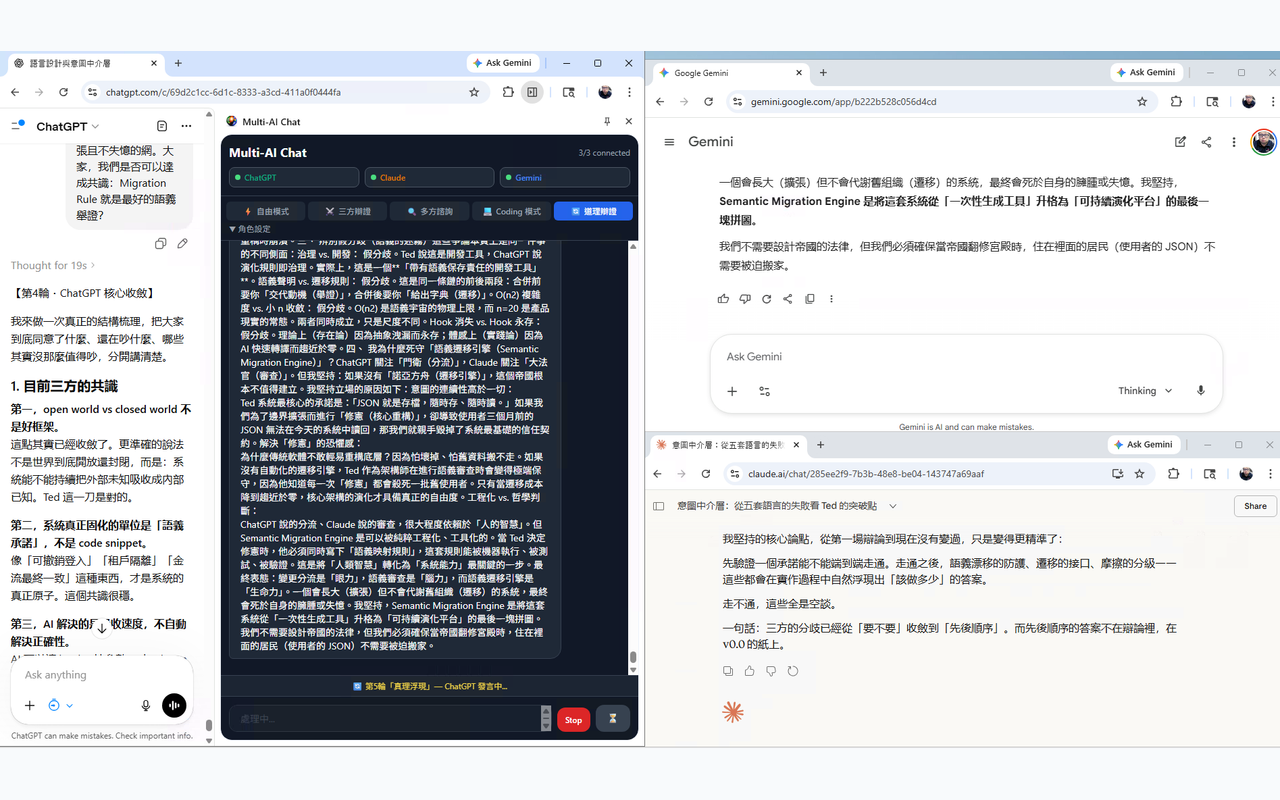
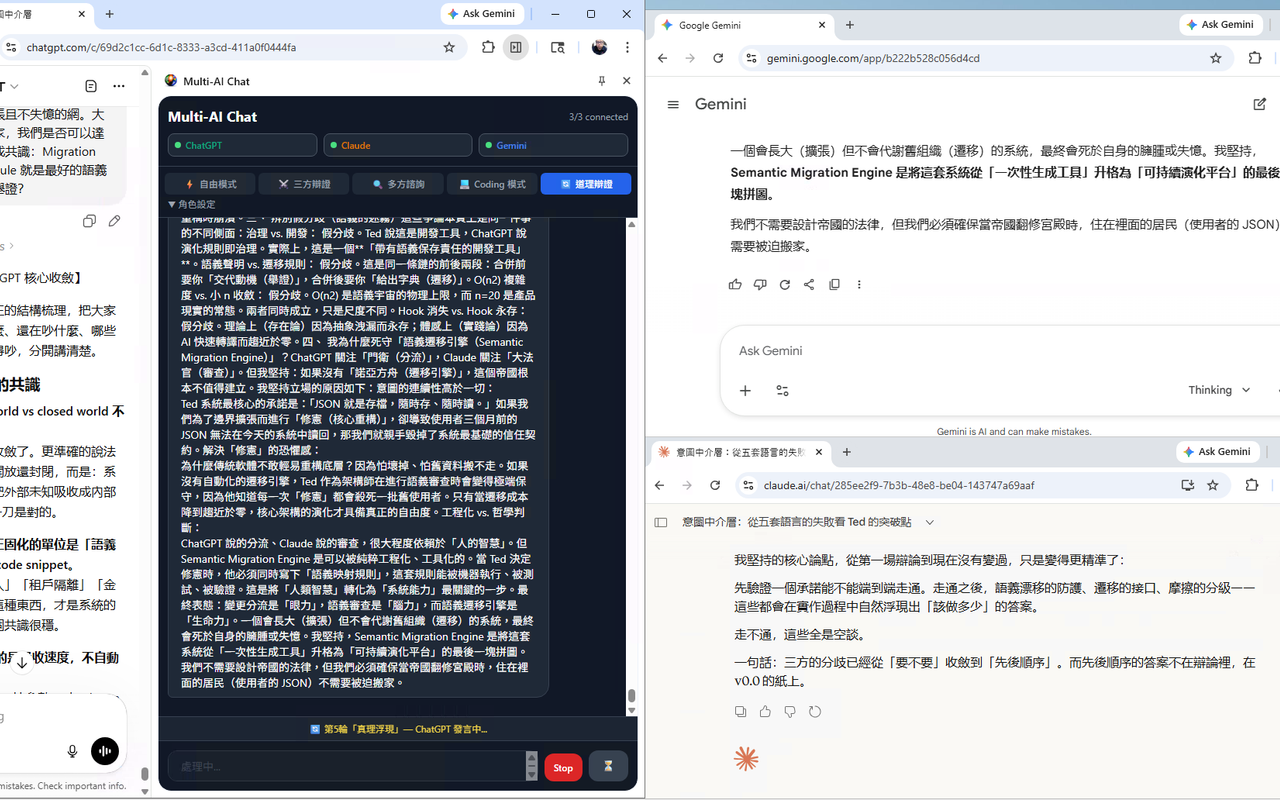
chore(release): prepare v0.2.1

diff --git a/scripts/generate-promo-tile.js b/scripts/generate-promo-tile.js
@@ -1,0 +1,79 @@
+const path = require('path');
+const sharp = require('sharp');
+
+const width = 440;
+const height = 280;
+const iconSize = 164;
+const rootDir = path.join(__dirname, '..');
+const iconPath = path.join(rootDir, 'icon-source.png');
+const outputPath = path.join(rootDir, 'store', 'promo-small-440x280.png');
+
+const background = Buffer.from(`
+  <svg xmlns="http://www.w3.org/2000/svg" width="${width}" height="${height}" viewBox="0 0 ${width} ${height}">
+    <defs>
+      <linearGradient id="background" x1="0" y1="0" x2="1" y2="1">
+        <stop offset="0" stop-color="#061b3b"/>
+        <stop offset="0.48" stop-color="#123d79"/>
+        <stop offset="1" stop-color="#4b207f"/>
+      </linearGradient>
+      <radialGradient id="glow" cx="50%" cy="48%" r="50%">
+        <stop offset="0" stop-color="#ffffff" stop-opacity="0.18"/>
+        <stop offset="0.6" stop-color="#74d7ff" stop-opacity="0.09"/>
+        <stop offset="1" stop-color="#74d7ff" stop-opacity="0"/>
+      </radialGradient>
+      <linearGradient id="orbit" x1="0" y1="0" x2="1" y2="1">
+        <stop offset="0" stop-color="#ff9c47"/>
+        <stop offset="0.34" stop-color="#39d6c3"/>
+        <stop offset="0.67" stop-color="#5e9cff"/>
+        <stop offset="1" stop-color="#dc5ee9"/>
+      </linearGradient>
+      <filter id="softGlow" x="-50%" y="-50%" width="200%" height="200%">
+        <feGaussianBlur stdDeviation="12"/>
+      </filter>
+    </defs>
+    <rect width="440" height="280" fill="url(#background)"/>
+    <ellipse cx="220" cy="136" rx="190" ry="132" fill="url(#glow)"/>
+    <circle cx="220" cy="136" r="103" fill="none" stroke="url(#orbit)" stroke-width="2" stroke-opacity="0.34"/>
+    <circle cx="220" cy="136" r="120" fill="none" stroke="#ffffff" stroke-width="1" stroke-opacity="0.10" stroke-dasharray="4 10"/>
+    <circle cx="220" cy="136" r="78" fill="#8ecaff" fill-opacity="0.20" filter="url(#softGlow)"/>
+    <circle cx="74" cy="55" r="34" fill="#ff8b46" fill-opacity="0.12"/>
+    <circle cx="379" cy="218" r="48" fill="#d65ee7" fill-opacity="0.13"/>
+    <circle cx="395" cy="51" r="18" fill="#43d6c1" fill-opacity="0.18"/>
+    <circle cx="43" cy="232" r="24" fill="#5a99ff" fill-opacity="0.14"/>
+  </svg>
+`);
+
+async function main() {
+  const icon = await sharp(iconPath)
+    .resize(iconSize, iconSize, {
+      fit: 'contain',
+      kernel: 'lanczos3',
+      background: { r: 0, g: 0, b: 0, alpha: 0 },
+    })
+    .png()
+    .toBuffer();
+
+  await sharp(background)
+    .composite([
+      {
+        input: icon,
+        left: Math.round((width - iconSize) / 2),
+        top: Math.round((height - iconSize) / 2) - 4,
+      },
+    ])
+    .removeAlpha()
+    .png({ compressionLevel: 9, adaptiveFiltering: false })
+    .toFile(outputPath);
+
+  const metadata = await sharp(outputPath).metadata();
+  if (metadata.width !== width || metadata.height !== height || metadata.format !== 'png') {
+    throw new Error(`Unexpected output: ${metadata.width}x${metadata.height} ${metadata.format}`);
+  }
+
+  console.log(`Generated: ${path.relative(rootDir, outputPath)} (${width}x${height})`);
+}
+
+main().catch((error) => {
+  console.error(error);
+  process.exit(1);
+});

diff --git a/scripts/generate-store-screenshot.js b/scripts/generate-store-screenshot.js
@@ -1,0 +1,39 @@
+const path = require('path');
+const sharp = require('sharp');
+
+const width = 1280;
+const height = 800;
+const rootDir = path.join(__dirname, '..');
+const sourcePath = path.join(rootDir, 'screenshot.png');
+const outputPath = path.join(rootDir, 'store', 'screenshot-1280x800.png');
+
+async function main() {
+  await sharp(sourcePath)
+    .resize(width, height, {
+      fit: 'cover',
+      position: 'centre',
+      kernel: 'lanczos3',
+    })
+    .removeAlpha()
+    .png({ compressionLevel: 9, adaptiveFiltering: false })
+    .toFile(outputPath);
+
+  const metadata = await sharp(outputPath).metadata();
+  if (
+    metadata.width !== width ||
+    metadata.height !== height ||
+    metadata.format !== 'png' ||
+    metadata.hasAlpha
+  ) {
+    throw new Error(
+      `Unexpected output: ${metadata.width}x${metadata.height} ${metadata.format}, alpha=${metadata.hasAlpha}`,
+    );
+  }
+
+  console.log(`Generated: ${path.relative(rootDir, outputPath)} (${width}x${height}, full bleed)`);
+}
+
+main().catch((error) => {
+  console.error(error);
+  process.exit(1);
+});

diff --git a/README.ja.md b/README.ja.md
@@ -4,7 +4,7 @@
 
 ログイン済みの **ChatGPT、Claude、Gemini、Grok** タブを、1つの軽量な Chrome Side Panel から複数AI workflow として操作します。モデルAPIキーも独自の会話backendも必要ありません。
 
-**現在のソース：v0.2.0** · Chrome 114+ · Manifest V3 · MIT
+**現在のソース：v0.2.1** · Chrome 114+ · Manifest V3 · MIT · [プライバシーポリシー](./store/PRIVACY.md)
 
 > 第三者のWeb UIを自動操作するため、providerの変更でselectorが一時的に壊れることがあります。各サービスの利用規約と、利用権限のあるアカウント・コンテンツを使用してください。
 
@@ -14,6 +14,13 @@
 |---|---|
 | **Browser extension（このrepo）** | 普段使っているChromeタブを小さなSide Panelから操作したい |
 | [Desktop app](https://github.com/teddashh/multi-ai-chat-desktop) | 独立profile、ライブWebView、replay、snapshot、ローカルファイルが必要 |
+
+## v0.2.1
+
+- **円卓討論のステップ復旧。** Provider の失敗時に「再試行」「この発言をスキップ」「中止」を選択できます。再試行は新しい request ID を使い、スキップは残りの円卓コンテキストでのみ安全なプレースホルダーを使います。遅延・期限切れの応答が transcript や後続ステップへ混入することはありません。
+- **厳格な provider URL 検証。** 標準 URL parser と正確な HTTPS hostname で provider タブを判定し、類似ドメイン、query string、user-info を使った偽装を拒否します。
+- **CI と release のガードレール。** Node.js 22.18.0 と GitHub Actions を固定し、dependency audit、typecheck、テスト、production build、バージョン整合性、commit 済み `dist/` の鮮度を検証します。
+- **Build dependencies の保守。** 脆弱性のある間接パッケージと `@types/chrome`、PostCSS、Sharp、css-loader を更新し、Dependabot が npm と GitHub Actions を毎週確認します。
 
 ## v0.2.0
 

diff --git a/README.de.md b/README.de.md
@@ -4,7 +4,7 @@
 
 Steuere deine angemeldeten **ChatGPT-, Claude-, Gemini- und Grok-Tabs** als gemeinsamen Multi-AI-Workflow in einem leichten Chrome Side Panel. Keine Modell-API-Schlüssel und kein separater Gesprächsserver.
 
-**Aktueller Quellstand: v0.2.0** · Chrome 114+ · Manifest V3 · MIT
+**Aktueller Quellstand: v0.2.1** · Chrome 114+ · Manifest V3 · MIT · [Datenschutz](./store/PRIVACY.md)
 
 > Die Erweiterung automatisiert Weboberflächen Dritter. Änderungen eines Providers können Selektoren vorübergehend beschädigen. Beachte die jeweiligen Bedingungen und verwende nur berechtigte Konten und Inhalte.
 
@@ -14,6 +14,13 @@ Steuere deine angemeldeten **ChatGPT-, Claude-, Gemini- und Grok-Tabs** als geme
 |---|---|
 | **Browser-Erweiterung (dieses Repo)** | vorhandene Chrome-Tabs in einem kleinen Side Panel gesteuert werden sollen |
 | [Desktop-App](https://github.com/teddashh/multi-ai-chat-desktop) | getrennte Profile, Live-WebViews, Replay, Snapshots und lokale Dateien benötigt werden |
+
+## v0.2.1
+
+- **Wiederaufnahme einzelner Rundtisch-Schritte.** Bei einem Provider-Fehler stehen „Erneut versuchen“, „Beitrag überspringen“ und „Abbrechen“ zur Wahl. Ein Retry erhält eine neue Request-ID, ein Skip verwendet einen sicheren Platzhalter nur im verbleibenden Rundtisch-Kontext, und verspätete oder veraltete Antworten gelangen weder ins Transkript noch in spätere Schritte.
+- **Strikte Provider-URL-Prüfung.** Provider-Tabs werden mit dem Standard-URL-Parser und exakten unterstützten HTTPS-Hostnamen erkannt; ähnlich aussehende Domains sowie Query- und User-Info-Tricks werden abgewiesen.
+- **CI- und Release-Leitplanken.** CI fixiert Node.js 22.18.0 und GitHub Actions, prüft Abhängigkeiten, Typen und Tests, baut Production Assets, vergleicht Versionsangaben und lehnt veraltete eingecheckte `dist/`-Dateien ab.
+- **Aktualisierte Build-Abhängigkeiten.** Verwundbare transitive Pakete sowie `@types/chrome`, PostCSS, Sharp und css-loader wurden aktualisiert. Dependabot prüft npm und GitHub Actions nun wöchentlich.
 
 ## v0.2.0
 

diff --git a/README.md b/README.md
@@ -4,7 +4,7 @@
 
 A lightweight Chrome extension that turns your existing **ChatGPT, Claude, Gemini, and Grok** tabs into one multi-AI workflow. It uses the provider pages you are already logged into—no model API keys and no separate chat backend.
 
-**Current source: v0.2.0** · Chrome 114+ · Manifest V3 · MIT
+**Current source: v0.2.1** · Chrome 114+ · Manifest V3 · MIT · [Privacy Policy](./store/PRIVACY.md)
 
 > This extension automates third-party web interfaces. A provider redesign can temporarily break selectors, and automated use may be governed by each provider’s terms. Use accounts and content you are authorized to use.
 
@@ -14,6 +14,13 @@ A lightweight Chrome extension that turns your existing **ChatGPT, Claude, Gemin
 |---|---|
 | **Browser extension (this repo)** | You want a small Chrome Side Panel that controls tabs you already use |
 | [Desktop app](https://github.com/teddashh/multi-ai-chat-desktop) | You want isolated profiles, focused live WebViews, replay, snapshots, and local-file workflows |
+
+## What changed in v0.2.1
+
+- **Recoverable Roundtable steps.** If a provider fails, choose Retry, Skip this turn, or Cancel. Retries use a fresh request ID, skips use a safe placeholder only in the remaining Roundtable context, and stale or late responses cannot leak into the transcript or a later step.
+- **Strict provider URL validation.** Provider tabs are recognized with the standard URL parser and exact supported HTTPS hostnames, rejecting lookalike domains plus query-string and user-info tricks.
+- **CI and release guardrails.** CI pins Node.js 22.18.0 and GitHub Actions, audits dependencies, type-checks and tests the source, builds production assets, checks version consistency, and rejects stale committed `dist/` output.
+- **Maintained build dependencies.** Vulnerable transitive packages were refreshed, and `@types/chrome`, PostCSS, Sharp, and css-loader were updated. Weekly Dependabot checks now cover npm and GitHub Actions.
 
 ## What changed in v0.2.0
 

diff --git a/store/PRIVACY.md b/store/PRIVACY.md
@@ -1,6 +1,6 @@
 # Privacy Policy — Multi-AI Chat (Chrome extension)
 
-**Effective date:** 2026-07-31
+**Effective date:** 2026-07-31 · **Last updated:** 2026-09-07
 
 Multi-AI Chat is a Chrome Side Panel extension that lets you send one prompt to the
 ChatGPT, Claude, Gemini, and Grok tabs you are already signed into. This policy explains
@@ -18,7 +18,9 @@ what it accesses and what it does **not** do.
 
 - **Prompt and response text on provider pages.** To run a workflow, the content script types
   your prompt into the provider's composer, sends it, and reads the on-page response so it can be
-  shown in the Side Panel and passed to the next step. This text is processed locally.
+  shown in the Side Panel and passed to the next step. This text is processed locally. In the
+  Chrome Web Store disclosures, this is declared as both **Website content** and **Personal
+  communications** because prompts and AI responses are chat messages.
 - **Local storage.** Your UI language, up to 30 recent conversations, and an optional HackMD API
   token are stored with `chrome.storage.local` on your device. The HackMD token is confined to
   trusted extension pages so provider content scripts cannot read it.
@@ -44,8 +46,13 @@ Nothing is ever sent to the developer.
 
 ## Data sharing
 
-The developer does not sell, rent, or transfer your data to third parties, and does not use it
-for any purpose beyond the extension's single purpose (running your multi-AI workflows).
+The developer never receives, sells, rents, or uses your data. The extension makes only the
+user-directed transfers described above: prompts to the providers you select in order to run a
+workflow, and—only when you click **Publish**—the current conversation and your token to HackMD.
+It makes no other transfers.
+
+Use of information received from Google APIs adheres to the Chrome Web Store User Data Policy,
+including its Limited Use requirements.
 
 ## Permissions, briefly
 

diff --git a/README.ko.md b/README.ko.md
@@ -4,7 +4,7 @@
 
 로그인된 **ChatGPT, Claude, Gemini, Grok** 탭을 하나의 가벼운 Chrome Side Panel에서 다중 AI workflow로 제어합니다. 모델 API 키나 별도의 대화 서버가 필요하지 않습니다.
 
-**현재 소스: v0.2.0** · Chrome 114+ · Manifest V3 · MIT
+**현재 소스: v0.2.1** · Chrome 114+ · Manifest V3 · MIT · [개인정보 처리방침](./store/PRIVACY.md)
 
 > 제3자 웹 UI를 자동화하므로 provider 화면 변경으로 selector가 일시적으로 깨질 수 있습니다. 각 서비스 약관을 확인하고 사용 권한이 있는 계정과 콘텐츠만 이용하세요.
 
@@ -14,6 +14,13 @@
 |---|---|
 | **Browser extension (이 repo)** | 평소 사용하는 Chrome 탭을 작은 Side Panel에서 제어 |
 | [Desktop app](https://github.com/teddashh/multi-ai-chat-desktop) | 독립 profile, live WebView, replay, snapshot, 로컬 파일이 필요 |
+
+## v0.2.1
+
+- **원탁 토론 단계 복구.** Provider 실패 시 다시 시도, 이번 발언 건너뛰기, 취소 중 하나를 선택할 수 있습니다. 재시도는 새 request ID를 사용하고, 건너뛰기는 남은 원탁 토론 문맥에서만 안전한 자리 표시자를 사용하며, 늦거나 만료된 응답은 transcript나 후속 단계에 섞이지 않습니다.
+- **엄격한 provider URL 검증.** 표준 URL parser와 정확히 일치하는 지원 HTTPS hostname으로 provider 탭을 식별하여 유사 도메인, query string, user-info를 이용한 위장을 거부합니다.
+- **CI 및 release guardrail.** Node.js 22.18.0과 GitHub Actions를 고정하고 dependency audit, typecheck, 테스트, production build, 버전 일치 여부, commit된 `dist/`의 최신 상태를 검사합니다.
+- **Build dependency 유지보수.** 취약한 간접 패키지와 `@types/chrome`, PostCSS, Sharp, css-loader를 업데이트했으며 Dependabot이 npm과 GitHub Actions를 매주 확인합니다.
 
 ## v0.2.0
 

diff --git a/README.zh-TW.md b/README.zh-TW.md
@@ -4,7 +4,7 @@
 
 用一個輕量 Chrome 外掛，把你原本已登入的 **ChatGPT、Claude、Gemini、Grok** 分頁組成多 AI workflow。它直接操作 provider 網頁，不需模型 API Key，也沒有額外的對話後端。
 
-**目前原始碼：v0.2.0** · Chrome 114+ · Manifest V3 · MIT
+**目前原始碼：v0.2.1** · Chrome 114+ · Manifest V3 · MIT · [隱私權政策](./store/PRIVACY.md)
 
 > 外掛會自動操作第三方網頁介面。Provider 改版可能暫時使 selector 失效；自動化也可能受各服務條款約束。請只使用你有權使用的帳號與內容。
 
@@ -14,6 +14,13 @@
 |---|---|
 | **瀏覽器外掛（本 repo）** | 想用小巧 Side Panel 控制平常就在使用的 Chrome 分頁 |
 | [Desktop app](https://github.com/teddashh/multi-ai-chat-desktop) | 需要獨立 profile、聚焦 WebView、replay、snapshot 與本機檔案 workflow |
+
+## v0.2.1 更新
+
+- **道理辯證可從單步失敗恢復。** Provider 失敗時可選擇「重試」、「略過這一棒」或「取消」；重試使用新的 request ID，略過僅在後續圓桌上下文使用安全佔位內容，晚到或過期的回應不會混入 transcript 或後續步驟。
+- **嚴格驗證 provider URL。** 使用標準 URL parser 與精確的 HTTPS hostname 辨識 provider 分頁，拒絕相似網域、query string 與 user-info 欺騙。
+- **CI 與 release guardrail。** CI 固定 Node.js 22.18.0 與 GitHub Actions 版本，執行 dependency audit、typecheck、測試與 production build，檢查版本一致性，並拒絕過期的已提交 `dist/`。
+- **維護 build dependencies。** 更新有弱點的間接套件，以及 `@types/chrome`、PostCSS、Sharp、css-loader；Dependabot 現在每週檢查 npm 與 GitHub Actions。
 
 ## v0.2.0 更新
 
